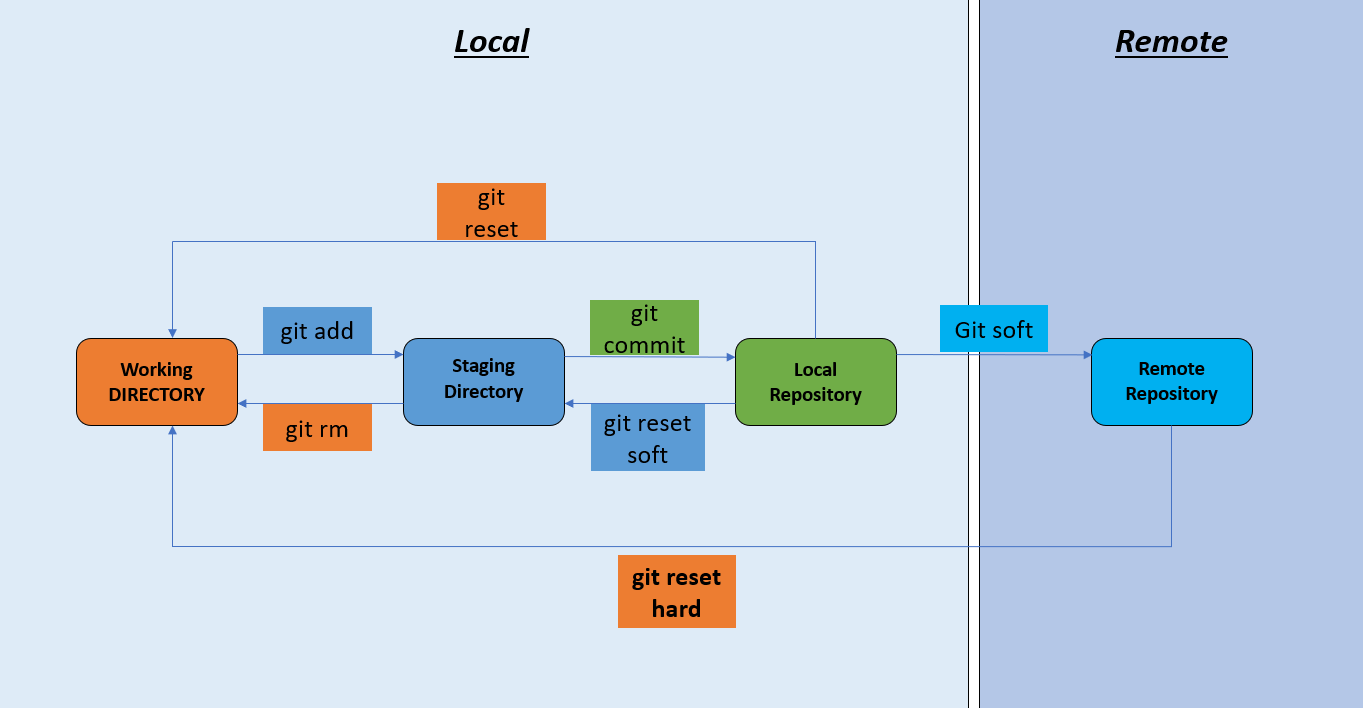
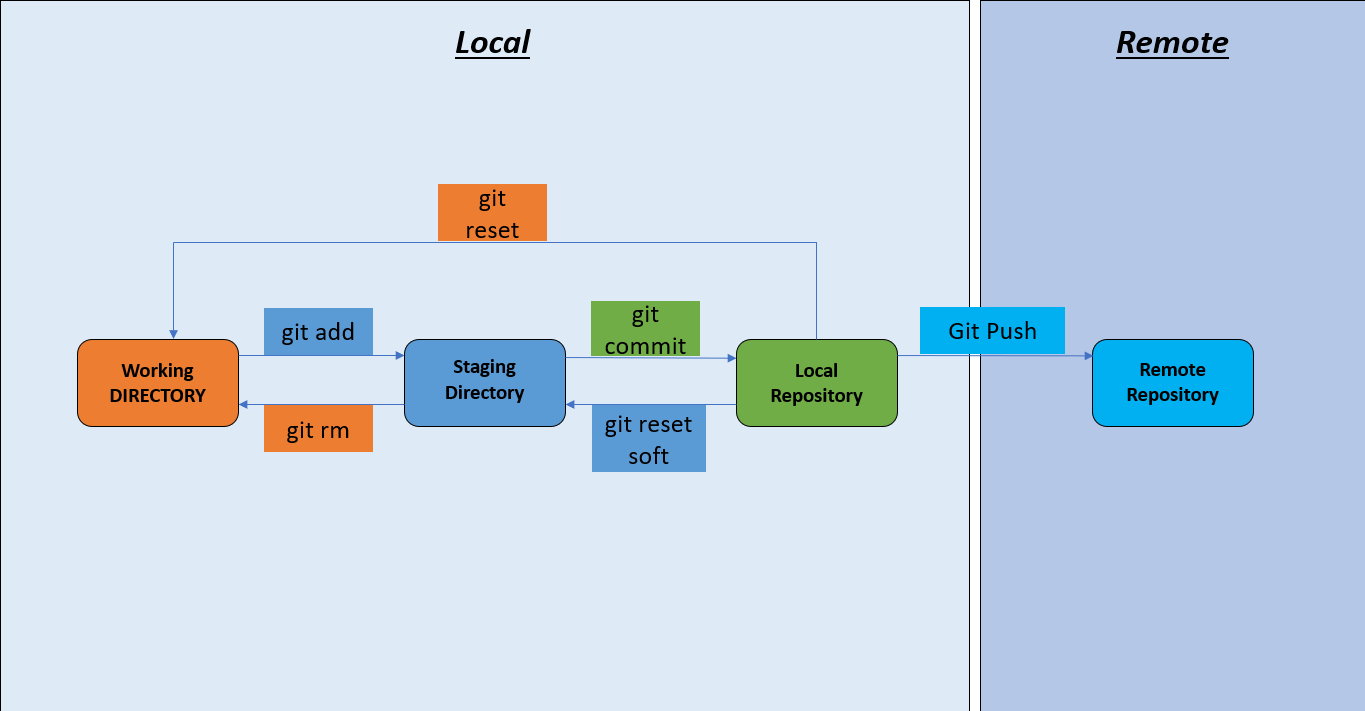
update read me file

diff --git a/README.md b/README.md
@@ -90,21 +90,61 @@ git merge <branch_name>                         (To merge Branch)
 ### Normal Frequently used Github Command
 
 #### Step 1:
-Credential Manager->Windows credentials->remove github info
+
+Credential Manager → Windows Credentials → Remove GitHub-related info
+
+Remove entries like:
+
+github.com
+git:https://github.com
+
+Then push again. GitHub will ask you to authenticate in browser.
 
 #### Step 2:
-change the local config if github account does not match with username and email
+
+Use this if your commit username/email does not match your GitHub account.
+
+git config user.name "Your GitHub Name"
+git config user.email "[email redacted]"
+
+Check local config:
+
+git config user.name
+git config user.email
+
+Use local config when the computer has multiple GitHub users.
+
+#### step 3:
+
+If a new local project will be pushed to a new GitHub repository
 
 ```bash
 git init
-git add .
+
+git add .                   
 git commit -m "<Message>"
-git remote add <name_url> <url>
-git push -u <name_url> <branch_name>
+
+git remote add <name> <repository_url>
+git push -u <name/respitory_url> <branch_name>
 ```
 
+If the repository already exists on GitHub and you want to work on it
+
 ```bash
-git clone <url>
+git clone <repository_url>
+cd <repository_folder>
+
+git branch -a
+git checkout/switch <branch_name>
+git branch <create_branch_name>
+git checkout/switch <branch_name>
+git pull
+
+git add .
+git commit -m "<Message>"
+
+git pull
+git push -u <origin/respitory_url> <branch_name>
 ```
 
 